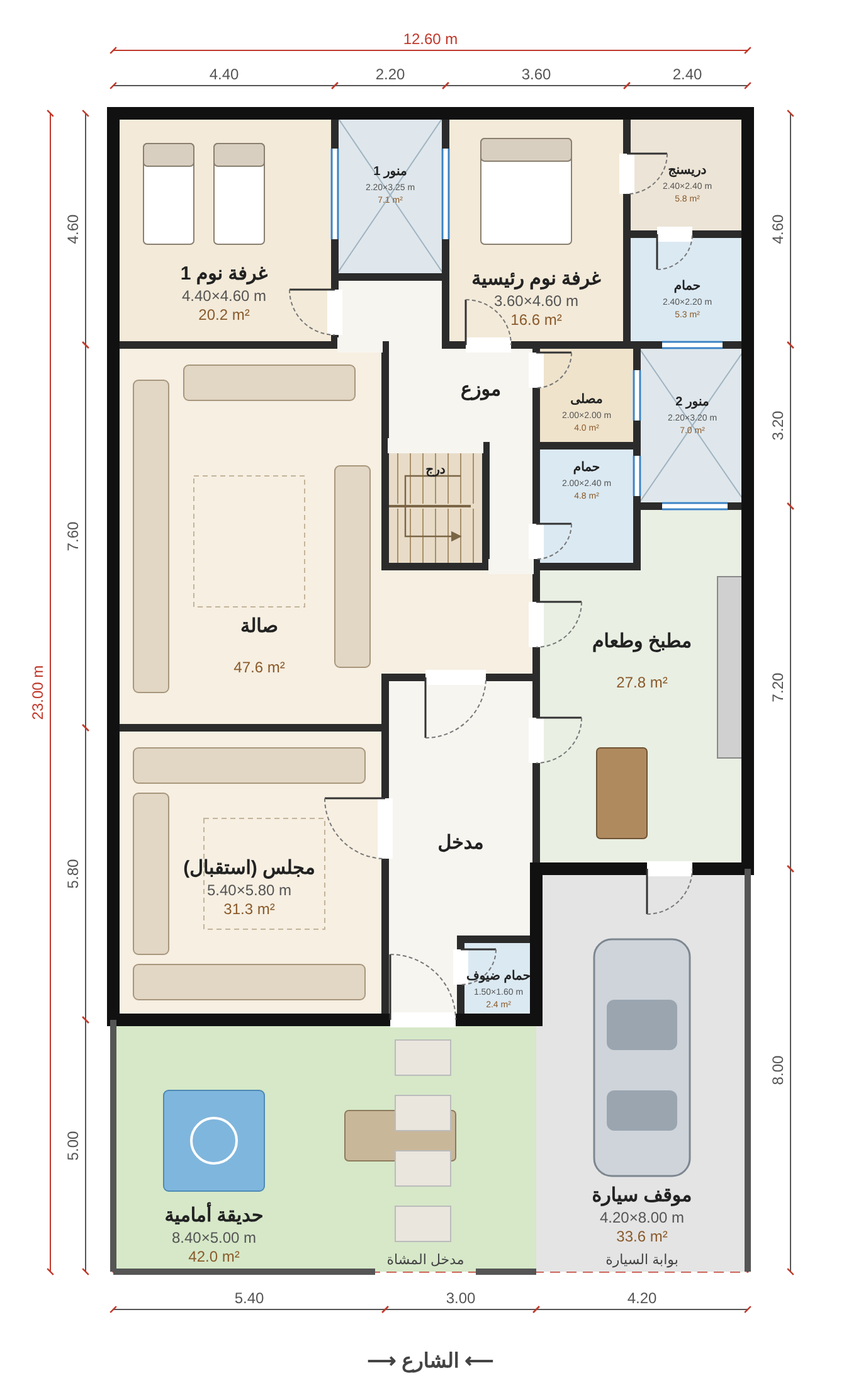
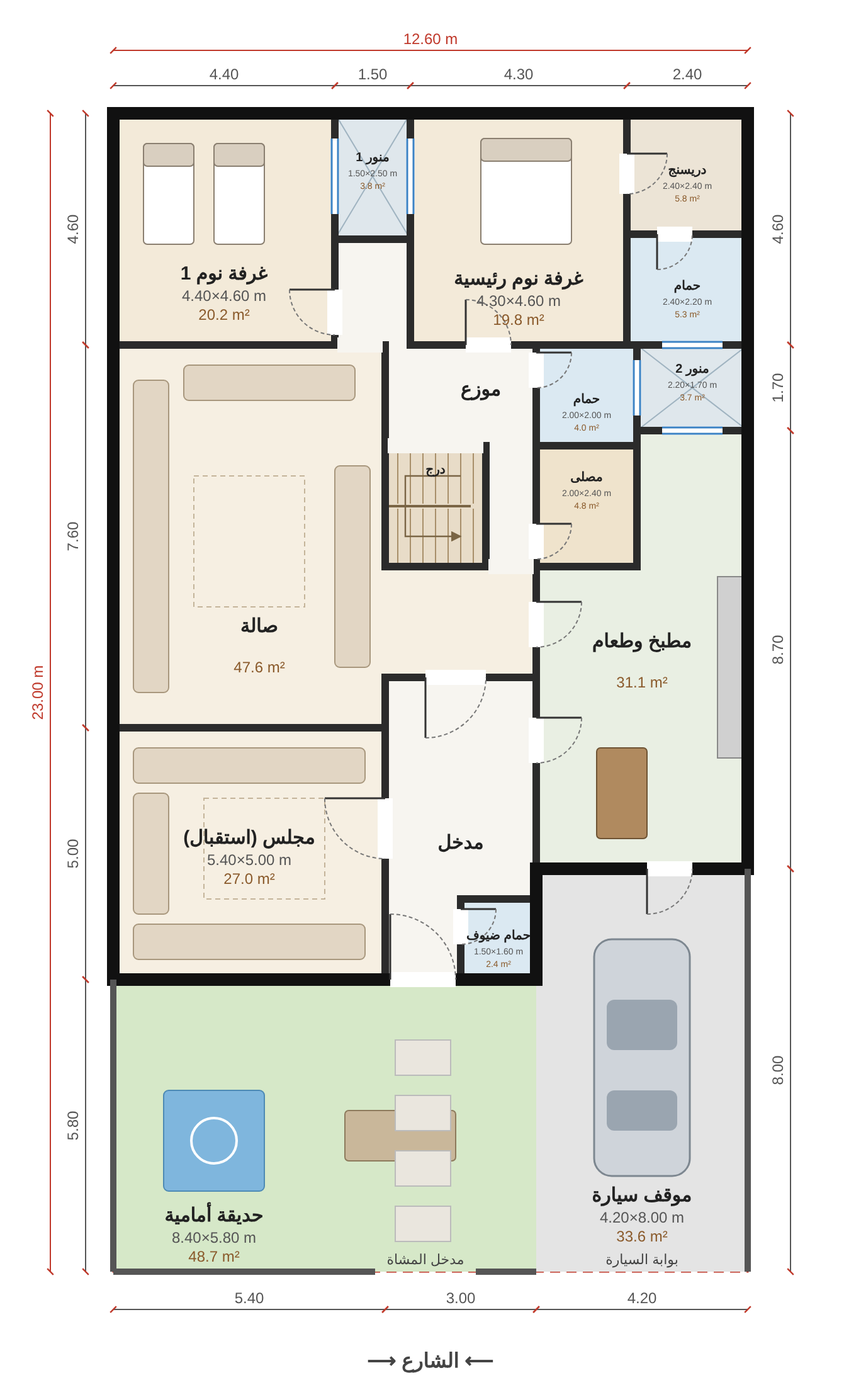
Shrink light wells to ~3.75 m2 each; keep built area at 200 m2
Claude-Session: https://claude.ai/code/session_014Qo95aYuqLuZ7wHDs8XfcJ

diff --git a/plan/index.html b/plan/index.html
@@ -12,27 +12,27 @@ td,th{border:1px solid #ddd;padding:6px 10px;font-size:14px} th{background:#f0eb
 tfoot td{font-weight:bold;background:#f7f3ec}
 </style></head><body>
 <h1>مخطط الدور الأرضي — قطعة 12.60 م × 23.00 م</h1>
-<p>مساحة الأرض: 289.8 م² · مسطح البناء (الدور الأرضي): 200.0 م² · المناور: 14.2 م² · الواجهة على الشارع من الأسفل</p>
+<p>مساحة الأرض: 289.8 م² · مسطح البناء (الدور الأرضي): 200.0 م² · المناور: 7.5 م² · الواجهة على الشارع من الأسفل</p>
 <div class="wrap"><svg xmlns="http://www.w3.org/2000/svg" viewBox="0 0 684 1100" width="684" height="1100" font-family="Tahoma, Arial, sans-serif" direction="rtl">
 <rect width="684" height="1100" fill="#ffffff"/>
 <rect x="90" y="90" width="504.0" height="920.0" fill="none" stroke="#c0392b" stroke-width="1.5" stroke-dasharray="8 5"/>
 <polygon points="90.0,90.0 266.0,90.0 266.0,274.0 90.0,274.0" fill="#f3ead9"/>
-<polygon points="266.0,90.0 354.0,90.0 354.0,220.0 266.0,220.0" fill="#dfe7ec"/>
-<polygon points="354.0,90.0 498.0,90.0 498.0,274.0 354.0,274.0" fill="#f3ead9"/>
+<polygon points="266.0,90.0 326.0,90.0 326.0,190.0 266.0,190.0" fill="#dfe7ec"/>
+<polygon points="326.0,90.0 498.0,90.0 498.0,274.0 326.0,274.0" fill="#f3ead9"/>
 <polygon points="498.0,90.0 594.0,90.0 594.0,186.0 498.0,186.0" fill="#ece4d6"/>
 <polygon points="498.0,186.0 594.0,186.0 594.0,274.0 498.0,274.0" fill="#dbe9f2"/>
-<polygon points="266.0,220.0 354.0,220.0 354.0,274.0 426.0,274.0 426.0,450.0 386.0,450.0 386.0,354.0 306.0,354.0 306.0,274.0 266.0,274.0" fill="#f7f5f0"/>
-<polygon points="426.0,274.0 506.0,274.0 506.0,354.0 426.0,354.0" fill="#efe3cc"/>
-<polygon points="426.0,354.0 506.0,354.0 506.0,450.0 426.0,450.0" fill="#dbe9f2"/>
-<polygon points="506.0,274.0 594.0,274.0 594.0,402.0 506.0,402.0" fill="#dfe7ec"/>
+<polygon points="266.0,190.0 326.0,190.0 326.0,274.0 426.0,274.0 426.0,450.0 386.0,450.0 386.0,354.0 306.0,354.0 306.0,274.0 266.0,274.0" fill="#f7f5f0"/>
+<polygon points="426.0,354.0 506.0,354.0 506.0,450.0 426.0,450.0" fill="#efe3cc"/>
+<polygon points="426.0,274.0 506.0,274.0 506.0,354.0 426.0,354.0" fill="#dbe9f2"/>
+<polygon points="506.0,274.0 594.0,274.0 594.0,342.0 506.0,342.0" fill="#dfe7ec"/>
 <polygon points="90.0,274.0 306.0,274.0 306.0,450.0 426.0,450.0 426.0,538.0 306.0,538.0 306.0,578.0 90.0,578.0" fill="#f6efe2"/>
 <polygon points="306.0,354.0 386.0,354.0 386.0,450.0 306.0,450.0" fill="#e8dcc8"/>
-<polygon points="426.0,450.0 506.0,450.0 506.0,402.0 594.0,402.0 594.0,690.0 426.0,690.0" fill="#e9efe3"/>
-<polygon points="90.0,578.0 306.0,578.0 306.0,810.0 90.0,810.0" fill="#f6efe2"/>
-<polygon points="306.0,538.0 426.0,538.0 426.0,746.0 366.0,746.0 366.0,810.0 306.0,810.0" fill="#f7f5f0"/>
-<polygon points="366.0,746.0 426.0,746.0 426.0,810.0 366.0,810.0" fill="#dbe9f2"/>
+<polygon points="426.0,450.0 506.0,450.0 506.0,342.0 594.0,342.0 594.0,690.0 426.0,690.0" fill="#e9efe3"/>
+<polygon points="90.0,578.0 306.0,578.0 306.0,778.0 90.0,778.0" fill="#f6efe2"/>
+<polygon points="306.0,538.0 426.0,538.0 426.0,714.0 366.0,714.0 366.0,778.0 306.0,778.0" fill="#f7f5f0"/>
+<polygon points="366.0,714.0 426.0,714.0 426.0,778.0 366.0,778.0" fill="#dbe9f2"/>
 <polygon points="426.0,690.0 594.0,690.0 594.0,1010.0 426.0,1010.0" fill="#e4e4e4"/>
-<polygon points="90.0,810.0 426.0,810.0 426.0,1010.0 90.0,1010.0" fill="#d6e8c8"/>
+<polygon points="90.0,778.0 426.0,778.0 426.0,1010.0 90.0,1010.0" fill="#d6e8c8"/>
 <line x1="316.0" y1="354.0" x2="316.0" y2="400.0" stroke="#a88f6a" stroke-width="1"/>
 <line x1="316.0" y1="404.0" x2="316.0" y2="450.0" stroke="#a88f6a" stroke-width="1"/>
 <line x1="326.0" y1="354.0" x2="326.0" y2="400.0" stroke="#a88f6a" stroke-width="1"/>
@@ -68,34 +68,34 @@ tfoot td{font-weight:bold;background:#f7f3ec}
 <rect x="570.0" y="458.0" width="24.0" height="144.0" fill="#d0d0d0" stroke="#888"/>
 <rect x="474.0" y="594.0" width="40.0" height="72.0" fill="#b08a5f" stroke="#6e5333" rx="3"/>
 <rect x="106.0" y="594.0" width="184.0" height="28.0" fill="#e2d6c4" stroke="#a8977d" rx="4"/>
-<rect x="106.0" y="766.0" width="184.0" height="28.0" fill="#e2d6c4" stroke="#a8977d" rx="4"/>
-<rect x="106.0" y="630.0" width="28.0" height="128.0" fill="#e2d6c4" stroke="#a8977d" rx="4"/>
+<rect x="106.0" y="734.0" width="184.0" height="28.0" fill="#e2d6c4" stroke="#a8977d" rx="4"/>
+<rect x="106.0" y="630.0" width="28.0" height="96.0" fill="#e2d6c4" stroke="#a8977d" rx="4"/>
 <rect x="106.0" y="302.0" width="28.0" height="248.0" fill="#e2d6c4" stroke="#a8977d" rx="4"/>
 <rect x="146.0" y="290.0" width="136.0" height="28.0" fill="#e2d6c4" stroke="#a8977d" rx="4"/>
 <rect x="266.0" y="370.0" width="28.0" height="160.0" fill="#e2d6c4" stroke="#a8977d" rx="4"/>
-<rect x="162.0" y="650.0" width="96.0" height="88.0" fill="none" stroke="#c4b49a" stroke-dasharray="4 3"/>
+<rect x="162.0" y="634.0" width="96.0" height="80.0" fill="none" stroke="#c4b49a" stroke-dasharray="4 3"/>
 <rect x="154.0" y="378.0" width="88.0" height="104.0" fill="none" stroke="#c4b49a" stroke-dasharray="4 3"/>
-<line x1="266.0" y1="90" x2="354.0" y2="220.0" stroke="#9fb3c0" stroke-width="1"/>
-<line x1="354.0" y1="90" x2="266.0" y2="220.0" stroke="#9fb3c0" stroke-width="1"/>
-<line x1="506.0" y1="274.0" x2="594.0" y2="402.0" stroke="#9fb3c0" stroke-width="1"/>
-<line x1="594.0" y1="274.0" x2="506.0" y2="402.0" stroke="#9fb3c0" stroke-width="1"/>
+<line x1="266.0" y1="90" x2="326.0" y2="190.0" stroke="#9fb3c0" stroke-width="1"/>
+<line x1="326.0" y1="90" x2="266.0" y2="190.0" stroke="#9fb3c0" stroke-width="1"/>
+<line x1="506.0" y1="274.0" x2="594.0" y2="342.0" stroke="#9fb3c0" stroke-width="1"/>
+<line x1="594.0" y1="274.0" x2="506.0" y2="342.0" stroke="#9fb3c0" stroke-width="1"/>
 <polygon points="90.0,90.0 266.0,90.0 266.0,274.0 90.0,274.0" fill="none" stroke="#2b2b2b" stroke-width="6.0" stroke-linejoin="miter"/>
-<polygon points="266.0,90.0 354.0,90.0 354.0,220.0 266.0,220.0" fill="none" stroke="#2b2b2b" stroke-width="6.0" stroke-linejoin="miter"/>
-<polygon points="354.0,90.0 498.0,90.0 498.0,274.0 354.0,274.0" fill="none" stroke="#2b2b2b" stroke-width="6.0" stroke-linejoin="miter"/>
+<polygon points="266.0,90.0 326.0,90.0 326.0,190.0 266.0,190.0" fill="none" stroke="#2b2b2b" stroke-width="6.0" stroke-linejoin="miter"/>
+<polygon points="326.0,90.0 498.0,90.0 498.0,274.0 326.0,274.0" fill="none" stroke="#2b2b2b" stroke-width="6.0" stroke-linejoin="miter"/>
 <polygon points="498.0,90.0 594.0,90.0 594.0,186.0 498.0,186.0" fill="none" stroke="#2b2b2b" stroke-width="6.0" stroke-linejoin="miter"/>
 <polygon points="498.0,186.0 594.0,186.0 594.0,274.0 498.0,274.0" fill="none" stroke="#2b2b2b" stroke-width="6.0" stroke-linejoin="miter"/>
-<polygon points="266.0,220.0 354.0,220.0 354.0,274.0 426.0,274.0 426.0,450.0 386.0,450.0 386.0,354.0 306.0,354.0 306.0,274.0 266.0,274.0" fill="none" stroke="#2b2b2b" stroke-width="6.0" stroke-linejoin="miter"/>
-<polygon points="426.0,274.0 506.0,274.0 506.0,354.0 426.0,354.0" fill="none" stroke="#2b2b2b" stroke-width="6.0" stroke-linejoin="miter"/>
+<polygon points="266.0,190.0 326.0,190.0 326.0,274.0 426.0,274.0 426.0,450.0 386.0,450.0 386.0,354.0 306.0,354.0 306.0,274.0 266.0,274.0" fill="none" stroke="#2b2b2b" stroke-width="6.0" stroke-linejoin="miter"/>
 <polygon points="426.0,354.0 506.0,354.0 506.0,450.0 426.0,450.0" fill="none" stroke="#2b2b2b" stroke-width="6.0" stroke-linejoin="miter"/>
-<polygon points="506.0,274.0 594.0,274.0 594.0,402.0 506.0,402.0" fill="none" stroke="#2b2b2b" stroke-width="6.0" stroke-linejoin="miter"/>
+<polygon points="426.0,274.0 506.0,274.0 506.0,354.0 426.0,354.0" fill="none" stroke="#2b2b2b" stroke-width="6.0" stroke-linejoin="miter"/>
+<polygon points="506.0,274.0 594.0,274.0 594.0,342.0 506.0,342.0" fill="none" stroke="#2b2b2b" stroke-width="6.0" stroke-linejoin="miter"/>
 <polygon points="90.0,274.0 306.0,274.0 306.0,450.0 426.0,450.0 426.0,538.0 306.0,538.0 306.0,578.0 90.0,578.0" fill="none" stroke="#2b2b2b" stroke-width="6.0" stroke-linejoin="miter"/>
 <polygon points="306.0,354.0 386.0,354.0 386.0,450.0 306.0,450.0" fill="none" stroke="#2b2b2b" stroke-width="6.0" stroke-linejoin="miter"/>
-<polygon points="426.0,450.0 506.0,450.0 506.0,402.0 594.0,402.0 594.0,690.0 426.0,690.0" fill="none" stroke="#2b2b2b" stroke-width="6.0" stroke-linejoin="miter"/>
-<polygon points="90.0,578.0 306.0,578.0 306.0,810.0 90.0,810.0" fill="none" stroke="#2b2b2b" stroke-width="6.0" stroke-linejoin="miter"/>
-<polygon points="306.0,538.0 426.0,538.0 426.0,746.0 366.0,746.0 366.0,810.0 306.0,810.0" fill="none" stroke="#2b2b2b" stroke-width="6.0" stroke-linejoin="miter"/>
-<polygon points="366.0,746.0 426.0,746.0 426.0,810.0 366.0,810.0" fill="none" stroke="#2b2b2b" stroke-width="6.0" stroke-linejoin="miter"/>
-<polygon points="90.0,90.0 594.0,90.0 594.0,690.0 426.0,690.0 426.0,810.0 90.0,810.0" fill="none" stroke="#111" stroke-width="10.0" stroke-linejoin="miter"/>
-<polyline points="90.0,810.0 90.0,1010.0" stroke="#555" stroke-width="5" fill="none"/>
+<polygon points="426.0,450.0 506.0,450.0 506.0,342.0 594.0,342.0 594.0,690.0 426.0,690.0" fill="none" stroke="#2b2b2b" stroke-width="6.0" stroke-linejoin="miter"/>
+<polygon points="90.0,578.0 306.0,578.0 306.0,778.0 90.0,778.0" fill="none" stroke="#2b2b2b" stroke-width="6.0" stroke-linejoin="miter"/>
+<polygon points="306.0,538.0 426.0,538.0 426.0,714.0 366.0,714.0 366.0,778.0 306.0,778.0" fill="none" stroke="#2b2b2b" stroke-width="6.0" stroke-linejoin="miter"/>
+<polygon points="366.0,714.0 426.0,714.0 426.0,778.0 366.0,778.0" fill="none" stroke="#2b2b2b" stroke-width="6.0" stroke-linejoin="miter"/>
+<polygon points="90.0,90.0 594.0,90.0 594.0,690.0 426.0,690.0 426.0,778.0 90.0,778.0" fill="none" stroke="#111" stroke-width="10.0" stroke-linejoin="miter"/>
+<polyline points="90.0,778.0 90.0,1010.0" stroke="#555" stroke-width="5" fill="none"/>
 <polyline points="594.0,690.0 594.0,1010.0" stroke="#555" stroke-width="5" fill="none"/>
 <polyline points="90.0,1010.0 298.0,1010.0" stroke="#555" stroke-width="5" fill="none"/>
 <polyline points="378.0,1010.0 426.0,1010.0" stroke="#555" stroke-width="5" fill="none"/>
@@ -129,45 +129,42 @@ tfoot td{font-weight:bold;background:#f7f3ec}
 <line x1="426.0" y1="570.0" x2="426.0" y2="606.0" stroke="#fff" stroke-width="12.0"/>
 <line x1="426.0" y1="570.0" x2="462.0" y2="570.0" stroke="#333" stroke-width="1.5"/>
 <path d="M462.0,570.0 A36.000000000000014,36.000000000000014 0 0 1 426.0,606.0" fill="none" stroke="#777" stroke-width="1" stroke-dasharray="3 2"/>
-<line x1="366.0" y1="754.0" x2="366.0" y2="782.0" stroke="#fff" stroke-width="12.0"/>
-<line x1="366.0" y1="754.0" x2="394.0" y2="754.0" stroke="#333" stroke-width="1.5"/>
-<path d="M394.0,754.0 A27.99999999999997,27.99999999999997 0 0 1 366.0,782.0" fill="none" stroke="#777" stroke-width="1" stroke-dasharray="3 2"/>
-<line x1="310.0" y1="810.0" x2="362.0" y2="810.0" stroke="#fff" stroke-width="12.0"/>
-<line x1="310.0" y1="810.0" x2="310.0" y2="758.0" stroke="#333" stroke-width="1.5"/>
-<path d="M310.0,758.0 A51.99999999999999,51.99999999999999 0 0 1 362.0,810.0" fill="none" stroke="#777" stroke-width="1" stroke-dasharray="3 2"/>
+<line x1="366.0" y1="722.0" x2="366.0" y2="750.0" stroke="#fff" stroke-width="12.0"/>
+<line x1="366.0" y1="722.0" x2="394.0" y2="722.0" stroke="#333" stroke-width="1.5"/>
+<path d="M394.0,722.0 A27.99999999999997,27.99999999999997 0 0 1 366.0,750.0" fill="none" stroke="#777" stroke-width="1" stroke-dasharray="3 2"/>
+<line x1="310.0" y1="778.0" x2="362.0" y2="778.0" stroke="#fff" stroke-width="12.0"/>
+<line x1="310.0" y1="778.0" x2="310.0" y2="726.0" stroke="#333" stroke-width="1.5"/>
+<path d="M310.0,726.0 A51.99999999999999,51.99999999999999 0 0 1 362.0,778.0" fill="none" stroke="#777" stroke-width="1" stroke-dasharray="3 2"/>
 <line x1="514.0" y1="690.0" x2="550.0" y2="690.0" stroke="#fff" stroke-width="12.0"/>
 <line x1="514.0" y1="690.0" x2="514.0" y2="726.0" stroke="#333" stroke-width="1.5"/>
 <path d="M514.0,726.0 A36.000000000000014,36.000000000000014 0 0 0 550.0,690.0" fill="none" stroke="#777" stroke-width="1" stroke-dasharray="3 2"/>
 <line x1="268.0" y1="274.0" x2="304.0" y2="274.0" stroke="#f7f5f0" stroke-width="12.0"/>
 <line x1="308.0" y1="354.0" x2="384.0" y2="354.0" stroke="#f7f5f0" stroke-width="12.0"/>
 <line x1="388.0" y1="450.0" x2="424.0" y2="450.0" stroke="#f7f5f0" stroke-width="12.0"/>
-<line x1="266.0" y1="118.0" x2="266.0" y2="190.0" stroke="#fff" stroke-width="7.0"/>
-<line x1="263.5" y1="118.0" x2="263.5" y2="190.0" stroke="#3b82c4" stroke-width="1.5"/>
-<line x1="268.5" y1="118.0" x2="268.5" y2="190.0" stroke="#3b82c4" stroke-width="1.5"/>
-<line x1="354.0" y1="118.0" x2="354.0" y2="190.0" stroke="#fff" stroke-width="7.0"/>
-<line x1="351.5" y1="118.0" x2="351.5" y2="190.0" stroke="#3b82c4" stroke-width="1.5"/>
-<line x1="356.5" y1="118.0" x2="356.5" y2="190.0" stroke="#3b82c4" stroke-width="1.5"/>
+<line x1="266.0" y1="110.0" x2="266.0" y2="170.0" stroke="#fff" stroke-width="7.0"/>
+<line x1="263.5" y1="110.0" x2="263.5" y2="170.0" stroke="#3b82c4" stroke-width="1.5"/>
+<line x1="268.5" y1="110.0" x2="268.5" y2="170.0" stroke="#3b82c4" stroke-width="1.5"/>
+<line x1="326.0" y1="110.0" x2="326.0" y2="170.0" stroke="#fff" stroke-width="7.0"/>
+<line x1="323.5" y1="110.0" x2="323.5" y2="170.0" stroke="#3b82c4" stroke-width="1.5"/>
+<line x1="328.5" y1="110.0" x2="328.5" y2="170.0" stroke="#3b82c4" stroke-width="1.5"/>
 <line x1="526.0" y1="274.0" x2="574.0" y2="274.0" stroke="#fff" stroke-width="7.0"/>
 <line x1="526.0" y1="271.5" x2="574.0" y2="271.5" stroke="#3b82c4" stroke-width="1.5"/>
 <line x1="526.0" y1="276.5" x2="574.0" y2="276.5" stroke="#3b82c4" stroke-width="1.5"/>
-<line x1="506.0" y1="294.0" x2="506.0" y2="334.0" stroke="#fff" stroke-width="7.0"/>
-<line x1="503.5" y1="294.0" x2="503.5" y2="334.0" stroke="#3b82c4" stroke-width="1.5"/>
-<line x1="508.5" y1="294.0" x2="508.5" y2="334.0" stroke="#3b82c4" stroke-width="1.5"/>
-<line x1="506.0" y1="362.0" x2="506.0" y2="394.0" stroke="#fff" stroke-width="7.0"/>
-<line x1="503.5" y1="362.0" x2="503.5" y2="394.0" stroke="#3b82c4" stroke-width="1.5"/>
-<line x1="508.5" y1="362.0" x2="508.5" y2="394.0" stroke="#3b82c4" stroke-width="1.5"/>
-<line x1="526.0" y1="402.0" x2="578.0" y2="402.0" stroke="#fff" stroke-width="7.0"/>
-<line x1="526.0" y1="399.5" x2="578.0" y2="399.5" stroke="#3b82c4" stroke-width="1.5"/>
-<line x1="526.0" y1="404.5" x2="578.0" y2="404.5" stroke="#3b82c4" stroke-width="1.5"/>
+<line x1="506.0" y1="286.0" x2="506.0" y2="330.0" stroke="#fff" stroke-width="7.0"/>
+<line x1="503.5" y1="286.0" x2="503.5" y2="330.0" stroke="#3b82c4" stroke-width="1.5"/>
+<line x1="508.5" y1="286.0" x2="508.5" y2="330.0" stroke="#3b82c4" stroke-width="1.5"/>
+<line x1="526.0" y1="342.0" x2="574.0" y2="342.0" stroke="#fff" stroke-width="7.0"/>
+<line x1="526.0" y1="339.5" x2="574.0" y2="339.5" stroke="#3b82c4" stroke-width="1.5"/>
+<line x1="526.0" y1="344.5" x2="574.0" y2="344.5" stroke="#3b82c4" stroke-width="1.5"/>
 <text x="178.0" y="222.0" text-anchor="middle" font-size="15" font-weight="bold" fill="#222">غرفة نوم 1</text>
 <text x="178.0" y="239.0" text-anchor="middle" font-size="12" fill="#555" direction="ltr">4.40×4.60 m</text>
 <text x="178.0" y="254.0" text-anchor="middle" font-size="12" fill="#8a5a2b" direction="ltr">20.2 m²</text>
-<text x="310.0" y="139.0" text-anchor="middle" font-size="10" font-weight="bold" fill="#222">منور 1</text>
-<text x="310.0" y="151.0" text-anchor="middle" font-size="7" fill="#555" direction="ltr">2.20×3.25 m</text>
-<text x="310.0" y="161.0" text-anchor="middle" font-size="7" fill="#8a5a2b" direction="ltr">7.1 m²</text>
-<text x="425.99999999999994" y="226.0" text-anchor="middle" font-size="15" font-weight="bold" fill="#222">غرفة نوم رئيسية</text>
-<text x="425.99999999999994" y="243.0" text-anchor="middle" font-size="12" fill="#555" direction="ltr">3.60×4.60 m</text>
-<text x="425.99999999999994" y="258.0" text-anchor="middle" font-size="12" fill="#8a5a2b" direction="ltr">16.6 m²</text>
+<text x="296.0" y="128.0" text-anchor="middle" font-size="10" font-weight="bold" fill="#222">منور 1</text>
+<text x="296.0" y="140.0" text-anchor="middle" font-size="7" fill="#555" direction="ltr">1.50×2.50 m</text>
+<text x="296.0" y="150.0" text-anchor="middle" font-size="7" fill="#8a5a2b" direction="ltr">3.8 m²</text>
+<text x="412.0" y="226.0" text-anchor="middle" font-size="15" font-weight="bold" fill="#222">غرفة نوم رئيسية</text>
+<text x="412.0" y="243.0" text-anchor="middle" font-size="12" fill="#555" direction="ltr">4.30×4.60 m</text>
+<text x="412.0" y="258.0" text-anchor="middle" font-size="12" fill="#8a5a2b" direction="ltr">19.8 m²</text>
 <text x="546.0" y="138.0" text-anchor="middle" font-size="10" font-weight="bold" fill="#222">دريسنج</text>
 <text x="546.0" y="150.0" text-anchor="middle" font-size="7" fill="#555" direction="ltr">2.40×2.40 m</text>
 <text x="546.0" y="160.0" text-anchor="middle" font-size="7" fill="#8a5a2b" direction="ltr">5.8 m²</text>
@@ -175,44 +172,44 @@ tfoot td{font-weight:bold;background:#f7f3ec}
 <text x="546.0" y="242.0" text-anchor="middle" font-size="7" fill="#555" direction="ltr">2.40×2.20 m</text>
 <text x="546.0" y="252.0" text-anchor="middle" font-size="7" fill="#8a5a2b" direction="ltr">5.3 m²</text>
 <text x="382.0" y="314.0" text-anchor="middle" font-size="15" font-weight="bold" fill="#222">موزع</text>
-<text x="466.0" y="320.0" text-anchor="middle" font-size="10" font-weight="bold" fill="#222">مصلى</text>
+<text x="466.0" y="382.0" text-anchor="middle" font-size="10" font-weight="bold" fill="#222">مصلى</text>
+<text x="466.0" y="394.0" text-anchor="middle" font-size="7" fill="#555" direction="ltr">2.00×2.40 m</text>
+<text x="466.0" y="404.0" text-anchor="middle" font-size="7" fill="#8a5a2b" direction="ltr">4.8 m²</text>
+<text x="466.0" y="320.0" text-anchor="middle" font-size="10" font-weight="bold" fill="#222">حمام</text>
 <text x="466.0" y="332.0" text-anchor="middle" font-size="7" fill="#555" direction="ltr">2.00×2.00 m</text>
 <text x="466.0" y="342.0" text-anchor="middle" font-size="7" fill="#8a5a2b" direction="ltr">4.0 m²</text>
-<text x="466.0" y="374.0" text-anchor="middle" font-size="10" font-weight="bold" fill="#222">حمام</text>
-<text x="466.0" y="386.0" text-anchor="middle" font-size="7" fill="#555" direction="ltr">2.00×2.40 m</text>
-<text x="466.0" y="396.0" text-anchor="middle" font-size="7" fill="#8a5a2b" direction="ltr">4.8 m²</text>
-<text x="550.0" y="321.99999999999994" text-anchor="middle" font-size="10" font-weight="bold" fill="#222">منور 2</text>
-<text x="550.0" y="333.99999999999994" text-anchor="middle" font-size="7" fill="#555" direction="ltr">2.20×3.20 m</text>
-<text x="550.0" y="343.99999999999994" text-anchor="middle" font-size="7" fill="#8a5a2b" direction="ltr">7.0 m²</text>
+<text x="550.0" y="296.0" text-anchor="middle" font-size="10" font-weight="bold" fill="#222">منور 2</text>
+<text x="550.0" y="308.0" text-anchor="middle" font-size="7" fill="#555" direction="ltr">2.20×1.70 m</text>
+<text x="550.0" y="318.0" text-anchor="middle" font-size="7" fill="#8a5a2b" direction="ltr">3.7 m²</text>
 <text x="206.0" y="502.0" text-anchor="middle" font-size="15" font-weight="bold" fill="#222">صالة</text>
 <text x="206.0" y="519.0" text-anchor="middle" font-size="12" fill="#555" direction="ltr"></text>
 <text x="206.0" y="534.0" text-anchor="middle" font-size="12" fill="#8a5a2b" direction="ltr">47.6 m²</text>
 <text x="346.0" y="376.0" text-anchor="middle" font-size="10" font-weight="bold" fill="#222">درج</text>
 <text x="510.0" y="514.0" text-anchor="middle" font-size="15" font-weight="bold" fill="#222">مطبخ وطعام</text>
 <text x="510.0" y="531.0" text-anchor="middle" font-size="12" fill="#555" direction="ltr"></text>
-<text x="510.0" y="546.0" text-anchor="middle" font-size="12" fill="#8a5a2b" direction="ltr">27.8 m²</text>
-<text x="198.0" y="694.0" text-anchor="middle" font-size="15" font-weight="bold" fill="#222">مجلس (استقبال)</text>
-<text x="198.0" y="711.0" text-anchor="middle" font-size="12" fill="#555" direction="ltr">5.40×5.80 m</text>
-<text x="198.0" y="726.0" text-anchor="middle" font-size="12" fill="#8a5a2b" direction="ltr">31.3 m²</text>
+<text x="510.0" y="546.0" text-anchor="middle" font-size="12" fill="#8a5a2b" direction="ltr">31.1 m²</text>
+<text x="198.0" y="670.0" text-anchor="middle" font-size="15" font-weight="bold" fill="#222">مجلس (استقبال)</text>
+<text x="198.0" y="687.0" text-anchor="middle" font-size="12" fill="#555" direction="ltr">5.40×5.00 m</text>
+<text x="198.0" y="702.0" text-anchor="middle" font-size="12" fill="#8a5a2b" direction="ltr">27.0 m²</text>
 <text x="366.0" y="674.0" text-anchor="middle" font-size="15" font-weight="bold" fill="#222">مدخل</text>
-<text x="396.0" y="778.0" text-anchor="middle" font-size="10" font-weight="bold" fill="#222">حمام ضيوف</text>
-<text x="396.0" y="790.0" text-anchor="middle" font-size="7" fill="#555" direction="ltr">1.50×1.60 m</text>
-<text x="396.0" y="800.0" text-anchor="middle" font-size="7" fill="#8a5a2b" direction="ltr">2.4 m²</text>
+<text x="396.0" y="746.0" text-anchor="middle" font-size="10" font-weight="bold" fill="#222">حمام ضيوف</text>
+<text x="396.0" y="758.0" text-anchor="middle" font-size="7" fill="#555" direction="ltr">1.50×1.60 m</text>
+<text x="396.0" y="768.0" text-anchor="middle" font-size="7" fill="#8a5a2b" direction="ltr">2.4 m²</text>
 <text x="510.0" y="954.0" text-anchor="middle" font-size="15" font-weight="bold" fill="#222">موقف سيارة</text>
 <text x="510.0" y="971.0" text-anchor="middle" font-size="12" fill="#555" direction="ltr">4.20×8.00 m</text>
 <text x="510.0" y="986.0" text-anchor="middle" font-size="12" fill="#8a5a2b" direction="ltr">33.6 m²</text>
 <text x="170.0" y="970.0" text-anchor="middle" font-size="15" font-weight="bold" fill="#222">حديقة أمامية</text>
-<text x="170.0" y="987.0" text-anchor="middle" font-size="12" fill="#555" direction="ltr">8.40×5.00 m</text>
-<text x="170.0" y="1002.0" text-anchor="middle" font-size="12" fill="#8a5a2b" direction="ltr">42.0 m²</text>
+<text x="170.0" y="987.0" text-anchor="middle" font-size="12" fill="#555" direction="ltr">8.40×5.80 m</text>
+<text x="170.0" y="1002.0" text-anchor="middle" font-size="12" fill="#8a5a2b" direction="ltr">48.7 m²</text>
 <defs><marker id="arr" viewBox="0 0 10 10" refX="9" refY="5" markerWidth="7" markerHeight="7" orient="auto-start-reverse"><path d="M0,0 L10,5 L0,10 z" fill="#7a6545"/></marker><marker id="tk" viewBox="0 0 10 10" refX="5" refY="5" markerWidth="8" markerHeight="8" orient="auto"><path d="M2,8 L8,2" stroke="#c0392b" stroke-width="1.5"/></marker></defs>
 <line x1="90" y1="40" x2="594.0" y2="40" stroke="#c0392b" stroke-width="1" marker-start="url(#tk)" marker-end="url(#tk)"/>
 <text x="342.0" y="35" text-anchor="middle" font-size="12" fill="#c0392b" direction="ltr">12.60 m</text>
 <line x1="90" y1="68" x2="266.0" y2="68" stroke="#555" stroke-width="1" marker-start="url(#tk)" marker-end="url(#tk)"/>
 <text x="178.0" y="63" text-anchor="middle" font-size="12" fill="#555" direction="ltr">4.40</text>
-<line x1="266.0" y1="68" x2="354.0" y2="68" stroke="#555" stroke-width="1" marker-start="url(#tk)" marker-end="url(#tk)"/>
-<text x="310.0" y="63" text-anchor="middle" font-size="12" fill="#555" direction="ltr">2.20</text>
-<line x1="354.0" y1="68" x2="498.0" y2="68" stroke="#555" stroke-width="1" marker-start="url(#tk)" marker-end="url(#tk)"/>
-<text x="426.0" y="63" text-anchor="middle" font-size="12" fill="#555" direction="ltr">3.60</text>
+<line x1="266.0" y1="68" x2="326.0" y2="68" stroke="#555" stroke-width="1" marker-start="url(#tk)" marker-end="url(#tk)"/>
+<text x="296.0" y="63" text-anchor="middle" font-size="12" fill="#555" direction="ltr">1.50</text>
+<line x1="326.0" y1="68" x2="498.0" y2="68" stroke="#555" stroke-width="1" marker-start="url(#tk)" marker-end="url(#tk)"/>
+<text x="412.0" y="63" text-anchor="middle" font-size="12" fill="#555" direction="ltr">4.30</text>
 <line x1="498.0" y1="68" x2="594.0" y2="68" stroke="#555" stroke-width="1" marker-start="url(#tk)" marker-end="url(#tk)"/>
 <text x="546.0" y="63" text-anchor="middle" font-size="12" fill="#555" direction="ltr">2.40</text>
 <line x1="90" y1="1040.0" x2="306.0" y2="1040.0" stroke="#555" stroke-width="1" marker-start="url(#tk)" marker-end="url(#tk)"/>
@@ -227,16 +224,16 @@ tfoot td{font-weight:bold;background:#f7f3ec}
 <text x="62" y="182.0" text-anchor="middle" font-size="12" fill="#555" direction="ltr" transform="rotate(-90 62 182.0)">4.60</text>
 <line x1="68" y1="274.0" x2="68" y2="578.0" stroke="#555" stroke-width="1" marker-start="url(#tk)" marker-end="url(#tk)"/>
 <text x="62" y="426.0" text-anchor="middle" font-size="12" fill="#555" direction="ltr" transform="rotate(-90 62 426.0)">7.60</text>
-<line x1="68" y1="578.0" x2="68" y2="810.0" stroke="#555" stroke-width="1" marker-start="url(#tk)" marker-end="url(#tk)"/>
-<text x="62" y="694.0" text-anchor="middle" font-size="12" fill="#555" direction="ltr" transform="rotate(-90 62 694.0)">5.80</text>
-<line x1="68" y1="810.0" x2="68" y2="1010.0" stroke="#555" stroke-width="1" marker-start="url(#tk)" marker-end="url(#tk)"/>
-<text x="62" y="910.0" text-anchor="middle" font-size="12" fill="#555" direction="ltr" transform="rotate(-90 62 910.0)">5.00</text>
+<line x1="68" y1="578.0" x2="68" y2="778.0" stroke="#555" stroke-width="1" marker-start="url(#tk)" marker-end="url(#tk)"/>
+<text x="62" y="678.0" text-anchor="middle" font-size="12" fill="#555" direction="ltr" transform="rotate(-90 62 678.0)">5.00</text>
+<line x1="68" y1="778.0" x2="68" y2="1010.0" stroke="#555" stroke-width="1" marker-start="url(#tk)" marker-end="url(#tk)"/>
+<text x="62" y="894.0" text-anchor="middle" font-size="12" fill="#555" direction="ltr" transform="rotate(-90 62 894.0)">5.80</text>
 <line x1="628.0" y1="90" x2="628.0" y2="274.0" stroke="#555" stroke-width="1" marker-start="url(#tk)" marker-end="url(#tk)"/>
 <text x="622.0" y="182.0" text-anchor="middle" font-size="12" fill="#555" direction="ltr" transform="rotate(-90 622.0 182.0)">4.60</text>
-<line x1="628.0" y1="274.0" x2="628.0" y2="402.0" stroke="#555" stroke-width="1" marker-start="url(#tk)" marker-end="url(#tk)"/>
-<text x="622.0" y="338.0" text-anchor="middle" font-size="12" fill="#555" direction="ltr" transform="rotate(-90 622.0 338.0)">3.20</text>
-<line x1="628.0" y1="402.0" x2="628.0" y2="690.0" stroke="#555" stroke-width="1" marker-start="url(#tk)" marker-end="url(#tk)"/>
-<text x="622.0" y="546.0" text-anchor="middle" font-size="12" fill="#555" direction="ltr" transform="rotate(-90 622.0 546.0)">7.20</text>
+<line x1="628.0" y1="274.0" x2="628.0" y2="342.0" stroke="#555" stroke-width="1" marker-start="url(#tk)" marker-end="url(#tk)"/>
+<text x="622.0" y="308.0" text-anchor="middle" font-size="12" fill="#555" direction="ltr" transform="rotate(-90 622.0 308.0)">1.70</text>
+<line x1="628.0" y1="342.0" x2="628.0" y2="690.0" stroke="#555" stroke-width="1" marker-start="url(#tk)" marker-end="url(#tk)"/>
+<text x="622.0" y="516.0" text-anchor="middle" font-size="12" fill="#555" direction="ltr" transform="rotate(-90 622.0 516.0)">8.70</text>
 <line x1="628.0" y1="690.0" x2="628.0" y2="1010.0" stroke="#555" stroke-width="1" marker-start="url(#tk)" marker-end="url(#tk)"/>
 <text x="622.0" y="850.0" text-anchor="middle" font-size="12" fill="#555" direction="ltr" transform="rotate(-90 622.0 850.0)">8.00</text>
 <text x="342.0" y="1086" text-anchor="middle" font-size="16" font-weight="bold" fill="#444">⟵ الشارع ⟶</text>
@@ -244,8 +241,8 @@ tfoot td{font-weight:bold;background:#f7f3ec}
 <text x="510.0" y="1004" text-anchor="middle" font-size="11" fill="#444">بوابة السيارة</text>
 </svg>
 <table><thead><tr><th>الفراغ</th><th>المساحة م²</th></tr></thead>
-<tbody><tr><td>غرفة نوم 1</td><td dir='ltr'>20.24</td></tr><tr><td>منور 1</td><td dir='ltr'>7.15</td></tr><tr><td>غرفة نوم رئيسية</td><td dir='ltr'>16.56</td></tr><tr><td>دريسنج</td><td dir='ltr'>5.76</td></tr><tr><td>حمام</td><td dir='ltr'>5.28</td></tr><tr><td>موزع</td><td dir='ltr'>11.37</td></tr><tr><td>مصلى</td><td dir='ltr'>4.00</td></tr><tr><td>حمام</td><td dir='ltr'>4.80</td></tr><tr><td>منور 2</td><td dir='ltr'>7.04</td></tr><tr><td>صالة</td><td dir='ltr'>47.64</td></tr><tr><td>درج</td><td dir='ltr'>4.80</td></tr><tr><td>مطبخ وطعام</td><td dir='ltr'>27.84</td></tr><tr><td>مجلس (استقبال)</td><td dir='ltr'>31.32</td></tr><tr><td>مدخل</td><td dir='ltr'>18.00</td></tr><tr><td>حمام ضيوف</td><td dir='ltr'>2.40</td></tr><tr><td>موقف سيارة</td><td dir='ltr'>33.60</td></tr><tr><td>حديقة أمامية</td><td dir='ltr'>42.00</td></tr></tbody>
+<tbody><tr><td>غرفة نوم 1</td><td dir='ltr'>20.24</td></tr><tr><td>منور 1</td><td dir='ltr'>3.75</td></tr><tr><td>غرفة نوم رئيسية</td><td dir='ltr'>19.78</td></tr><tr><td>دريسنج</td><td dir='ltr'>5.76</td></tr><tr><td>حمام</td><td dir='ltr'>5.28</td></tr><tr><td>موزع</td><td dir='ltr'>11.55</td></tr><tr><td>مصلى</td><td dir='ltr'>4.80</td></tr><tr><td>حمام</td><td dir='ltr'>4.00</td></tr><tr><td>منور 2</td><td dir='ltr'>3.74</td></tr><tr><td>صالة</td><td dir='ltr'>47.64</td></tr><tr><td>درج</td><td dir='ltr'>4.80</td></tr><tr><td>مطبخ وطعام</td><td dir='ltr'>31.14</td></tr><tr><td>مجلس (استقبال)</td><td dir='ltr'>27.00</td></tr><tr><td>مدخل</td><td dir='ltr'>15.60</td></tr><tr><td>حمام ضيوف</td><td dir='ltr'>2.40</td></tr><tr><td>موقف سيارة</td><td dir='ltr'>33.60</td></tr><tr><td>حديقة أمامية</td><td dir='ltr'>48.72</td></tr></tbody>
 <tfoot><tr><td>مساحة الأرض</td><td dir='ltr'>289.80</td></tr>
-<tr><td>المناور</td><td dir='ltr'>14.19</td></tr>
-<tr><td>مسطح البناء</td><td dir='ltr'>200.01</td></tr></tfoot></table></div>
+<tr><td>المناور</td><td dir='ltr'>7.49</td></tr>
+<tr><td>مسطح البناء</td><td dir='ltr'>199.99</td></tr></tfoot></table></div>
 </body></html>

diff --git a/plan/generate.py b/plan/generate.py
@@ -13,24 +13,24 @@ def Y(v): return M + v * S
 R = lambda x0, y0, x1, y1: [(x0, y0), (x1, y0), (x1, y1), (x0, y1)]
 rooms = [
     ("غرفة نوم 1", R(0, 0, 4.4, 4.6), "#f3ead9", "room"),
-    ("منور 1", R(4.4, 0, 6.6, 3.25), "#dfe7ec", "well"),
-    ("غرفة نوم رئيسية", R(6.6, 0, 10.2, 4.6), "#f3ead9", "room"),
+    ("منور 1", R(4.4, 0, 5.9, 2.5), "#dfe7ec", "well"),
+    ("غرفة نوم رئيسية", R(5.9, 0, 10.2, 4.6), "#f3ead9", "room"),
     ("دريسنج", R(10.2, 0, 12.6, 2.4), "#ece4d6", "room"),
     ("حمام", R(10.2, 2.4, 12.6, 4.6), "#dbe9f2", "wet"),
-    ("موزع", [(4.4, 3.25), (6.6, 3.25), (6.6, 4.6), (8.4, 4.6), (8.4, 9.0), (7.4, 9.0),
+    ("موزع", [(4.4, 2.5), (5.9, 2.5), (5.9, 4.6), (8.4, 4.6), (8.4, 9.0), (7.4, 9.0),
               (7.4, 6.6), (5.4, 6.6), (5.4, 4.6), (4.4, 4.6)], "#f7f5f0", "circ"),
-    ("مصلى", R(8.4, 4.6, 10.4, 6.6), "#efe3cc", "room"),
-    ("حمام", R(8.4, 6.6, 10.4, 9.0), "#dbe9f2", "wet"),
-    ("منور 2", R(10.4, 4.6, 12.6, 7.8), "#dfe7ec", "well"),
+    ("مصلى", R(8.4, 6.6, 10.4, 9.0), "#efe3cc", "room"),
+    ("حمام", R(8.4, 4.6, 10.4, 6.6), "#dbe9f2", "wet"),
+    ("منور 2", R(10.4, 4.6, 12.6, 6.3), "#dfe7ec", "well"),
     ("صالة", [(0, 4.6), (5.4, 4.6), (5.4, 9.0), (8.4, 9.0), (8.4, 11.2), (5.4, 11.2), (5.4, 12.2), (0, 12.2)], "#f6efe2", "room"),
     ("درج", R(5.4, 6.6, 7.4, 9.0), "#e8dcc8", "stair"),
-    ("مطبخ وطعام", [(8.4, 9.0), (10.4, 9.0), (10.4, 7.8), (12.6, 7.8), (12.6, 15.0), (8.4, 15.0)], "#e9efe3", "room"),
-    ("مجلس (استقبال)", R(0, 12.2, 5.4, 18.0), "#f6efe2", "room"),
-    ("مدخل", [(5.4, 11.2), (8.4, 11.2), (8.4, 16.4), (6.9, 16.4), (6.9, 18.0), (5.4, 18.0)],
+    ("مطبخ وطعام", [(8.4, 9.0), (10.4, 9.0), (10.4, 6.3), (12.6, 6.3), (12.6, 15.0), (8.4, 15.0)], "#e9efe3", "room"),
+    ("مجلس (استقبال)", R(0, 12.2, 5.4, 17.2), "#f6efe2", "room"),
+    ("مدخل", [(5.4, 11.2), (8.4, 11.2), (8.4, 15.6), (6.9, 15.6), (6.9, 17.2), (5.4, 17.2)],
      "#f7f5f0", "circ"),
-    ("حمام ضيوف", R(6.9, 16.4, 8.4, 18.0), "#dbe9f2", "wet"),
+    ("حمام ضيوف", R(6.9, 15.6, 8.4, 17.2), "#dbe9f2", "wet"),
     ("موقف سيارة", R(8.4, 15.0, 12.6, 23.0), "#e4e4e4", "out"),
-    ("حديقة أمامية", R(0, 18.0, 8.4, 23.0), "#d6e8c8", "out"),
+    ("حديقة أمامية", R(0, 17.2, 8.4, 23.0), "#d6e8c8", "out"),
 ]
 
 # الأبواب: (اتجاه الجدار h/v, الإحداثي الثابت, بداية, نهاية, جهة الفتح +1/-1)
@@ -39,21 +39,21 @@ doors = [
     ("h", 4.6, 7.0, 7.9, -1),     # غرفة رئيسية
     ("v", 10.2, 0.8, 1.6, 1),     # دريسنج
     ("h", 2.4, 10.8, 11.5, 1),    # حمام رئيسي
-    ("v", 8.4, 4.75, 5.45, 1),    # مصلى
-    ("v", 8.4, 8.15, 8.85, 1),    # حمام 2
+    ("v", 8.4, 4.75, 5.45, 1),    # حمام 2
+    ("v", 8.4, 8.15, 8.85, 1),    # مصلى
     ("v", 8.4, 9.7, 10.6, 1),     # صالة ← مطبخ
     ("h", 11.2, 6.2, 7.4, 1),     # صالة ← مدخل
     ("v", 5.4, 13.6, 14.8, -1),   # مجلس ← مدخل
     ("v", 8.4, 12.0, 12.9, 1),    # مطبخ ← مدخل
-    ("v", 6.9, 16.6, 17.3, 1),    # حمام ضيوف
-    ("h", 18.0, 5.5, 6.8, -1),    # الباب الرئيسي
+    ("v", 6.9, 15.8, 16.5, 1),    # حمام ضيوف
+    ("h", 17.2, 5.5, 6.8, -1),    # الباب الرئيسي
     ("h", 15.0, 10.6, 11.5, 1),   # مطبخ ← موقف
 ]
 # فتحات بدون أبواب (ممرات مفتوحة)
 openings = [("h", 4.6, 4.45, 5.35), ("h", 6.6, 5.45, 7.35), ("h", 9.0, 7.45, 8.35)]
 # الشبابيك المطلة على المناور
-windows = [("v", 4.4, 0.7, 2.5), ("v", 6.6, 0.7, 2.5), ("h", 4.6, 10.9, 12.1),
-           ("v", 10.4, 5.1, 6.1), ("v", 10.4, 6.8, 7.6), ("h", 7.8, 10.9, 12.2)]
+windows = [("v", 4.4, 0.5, 2.0), ("v", 5.9, 0.5, 2.0), ("h", 4.6, 10.9, 12.1),
+           ("v", 10.4, 4.9, 6.0), ("h", 6.3, 10.9, 12.1)]
 
 def area(poly):
     a = 0
@@ -112,10 +112,10 @@ bed(0.6, 0.6, 1.0, 2.0); bed(2.0, 0.6, 1.0, 2.0); bed(7.3, 0.5, 1.8, 2.1)
 out.append(f'<rect x="{X(12.0)}" y="{Y(9.2)}" width="{0.6*S}" height="{3.6*S}" fill="#d0d0d0" stroke="#888"/>')
 out.append(f'<rect x="{X(9.6)}" y="{Y(12.6)}" width="{1.0*S}" height="{1.8*S}" fill="#b08a5f" stroke="#6e5333" rx="3"/>')
 # جلسات المجلس والصالة
-for (x, y, w, h) in [(0.4, 12.6, 4.6, 0.7), (0.4, 16.9, 4.6, 0.7), (0.4, 13.5, 0.7, 3.2),
+for (x, y, w, h) in [(0.4, 12.6, 4.6, 0.7), (0.4, 16.1, 4.6, 0.7), (0.4, 13.5, 0.7, 2.4),
                      (0.4, 5.3, 0.7, 6.2), (1.4, 5.0, 3.4, 0.7), (4.4, 7.0, 0.7, 4.0)]:
     out.append(f'<rect x="{X(x)}" y="{Y(y)}" width="{w*S}" height="{h*S}" fill="#e2d6c4" stroke="#a8977d" rx="4"/>')
-out.append(f'<rect x="{X(1.8)}" y="{Y(14.0)}" width="{2.4*S}" height="{2.2*S}" fill="none" stroke="#c4b49a" stroke-dasharray="4 3"/>')
+out.append(f'<rect x="{X(1.8)}" y="{Y(13.6)}" width="{2.4*S}" height="{2.0*S}" fill="none" stroke="#c4b49a" stroke-dasharray="4 3"/>')
 out.append(f'<rect x="{X(1.6)}" y="{Y(7.2)}" width="{2.2*S}" height="{2.6*S}" fill="none" stroke="#c4b49a" stroke-dasharray="4 3"/>')
 
 # المناور: تهشير
@@ -130,10 +130,10 @@ for name, poly, col, kind in rooms:
     if kind == "out": continue
     out.append(f'<polygon points="{pts(poly)}" fill="none" stroke="#2b2b2b" stroke-width="{INT*S:.1f}" stroke-linejoin="miter"/>')
 # الجدار الخارجي للمبنى
-outline = [(0, 0), (12.6, 0), (12.6, 15.0), (8.4, 15.0), (8.4, 18.0), (0, 18.0)]
+outline = [(0, 0), (12.6, 0), (12.6, 15.0), (8.4, 15.0), (8.4, 17.2), (0, 17.2)]
 out.append(f'<polygon points="{pts(outline)}" fill="none" stroke="#111" stroke-width="{EXT*S:.1f}" stroke-linejoin="miter"/>')
 # سور القطعة حول الموقف والحديقة
-out.append(f'<polyline points="{pts([(0,18),(0,23)])}" stroke="#555" stroke-width="5" fill="none"/>')
+out.append(f'<polyline points="{pts([(0,17.2),(0,23)])}" stroke="#555" stroke-width="5" fill="none"/>')
 out.append(f'<polyline points="{pts([(12.6,15),(12.6,23)])}" stroke="#555" stroke-width="5" fill="none"/>')
 out.append(f'<polyline points="{pts([(0,23),(5.2,23)])}" stroke="#555" stroke-width="5" fill="none"/>')
 out.append(f'<polyline points="{pts([(7.2,23),(8.4,23)])}" stroke="#555" stroke-width="5" fill="none"/>')
@@ -177,11 +177,11 @@ for name, poly, col, kind in rooms:
     if name == "حديقة أمامية": cx, cy = 2.0, 22.0
     if name == "غرفة نوم 1": cy = 3.3
     if name == "غرفة نوم رئيسية": cy = 3.4
-    if name == "مجلس (استقبال)": cy = 15.1
+    if name == "مجلس (استقبال)": cy = 14.5
     if name == "درج": cy = 7.15
-    if name == "مصلى": cy = 5.75
-    if name == "حمام" and min(p[1] for p in poly) == 6.6: cy = 7.1
-    if name.startswith("منور"): cy -= 0.4
+    if name == "مصلى": cy = 7.3
+    if name == "حمام" and min(p[1] for p in poly) == 4.6 and min(p[0] for p in poly) == 8.4: cy = 5.75
+    if name.startswith("منور"): cy -= 0.3
     xs = [p[0] for p in poly]; ys = [p[1] for p in poly]
     bw, bh = max(xs) - min(xs), max(ys) - min(ys)
     small = bw < 2.5 or bh < 2.5
@@ -208,14 +208,14 @@ def vdim(x_px, a, b, label, col="#c0392b"):
     out.append(f'<text x="{x_px-6}" y="{cy}" text-anchor="middle" font-size="12" fill="{col}" direction="ltr" transform="rotate(-90 {x_px-6} {cy})">{label}</text>')
 
 hdim(M - 50, 0, W, "12.60 m")
-for a, b in [(0, 4.4), (4.4, 6.6), (6.6, 10.2), (10.2, 12.6)]:
+for a, b in [(0, 4.4), (4.4, 5.9), (5.9, 10.2), (10.2, 12.6)]:
     hdim(M - 22, a, b, f"{b-a:.2f}", "#555")
 for a, b in [(0, 5.4), (5.4, 8.4), (8.4, 12.6)]:
     hdim(Y(L) + 30, a, b, f"{b-a:.2f}", "#555")
 vdim(M - 50, 0, L, "23.00 m")
-for a, b in [(0, 4.6), (4.6, 12.2), (12.2, 18.0), (18.0, 23.0)]:
+for a, b in [(0, 4.6), (4.6, 12.2), (12.2, 17.2), (17.2, 23.0)]:
     vdim(M - 22, a, b, f"{b-a:.2f}", "#555")
-for a, b in [(0, 4.6), (4.6, 7.8), (7.8, 15.0), (15.0, 23.0)]:
+for a, b in [(0, 4.6), (4.6, 6.3), (6.3, 15.0), (15.0, 23.0)]:
     vdim(X(W) + 34, a, b, f"{b-a:.2f}", "#555")
 
 # الشارع والشمال
@@ -230,7 +230,7 @@ open(os.path.join(here, "floor-plan.svg"), "w", encoding="utf-8").write(svg)
 
 # جدول المساحات
 wells = sum(area(p) for n, p, c, k in rooms if k == "well")
-built = 12.6 * 18.0 - 4.2 * 3.0 - wells
+built = 8.4 * 17.2 + 4.2 * 15.0 - wells
 rows = "".join(
     f"<tr><td>{n}</td><td dir='ltr'>{area(p):.2f}</td></tr>" for n, p, c, k in rooms)
 html = f"""<!doctype html>
